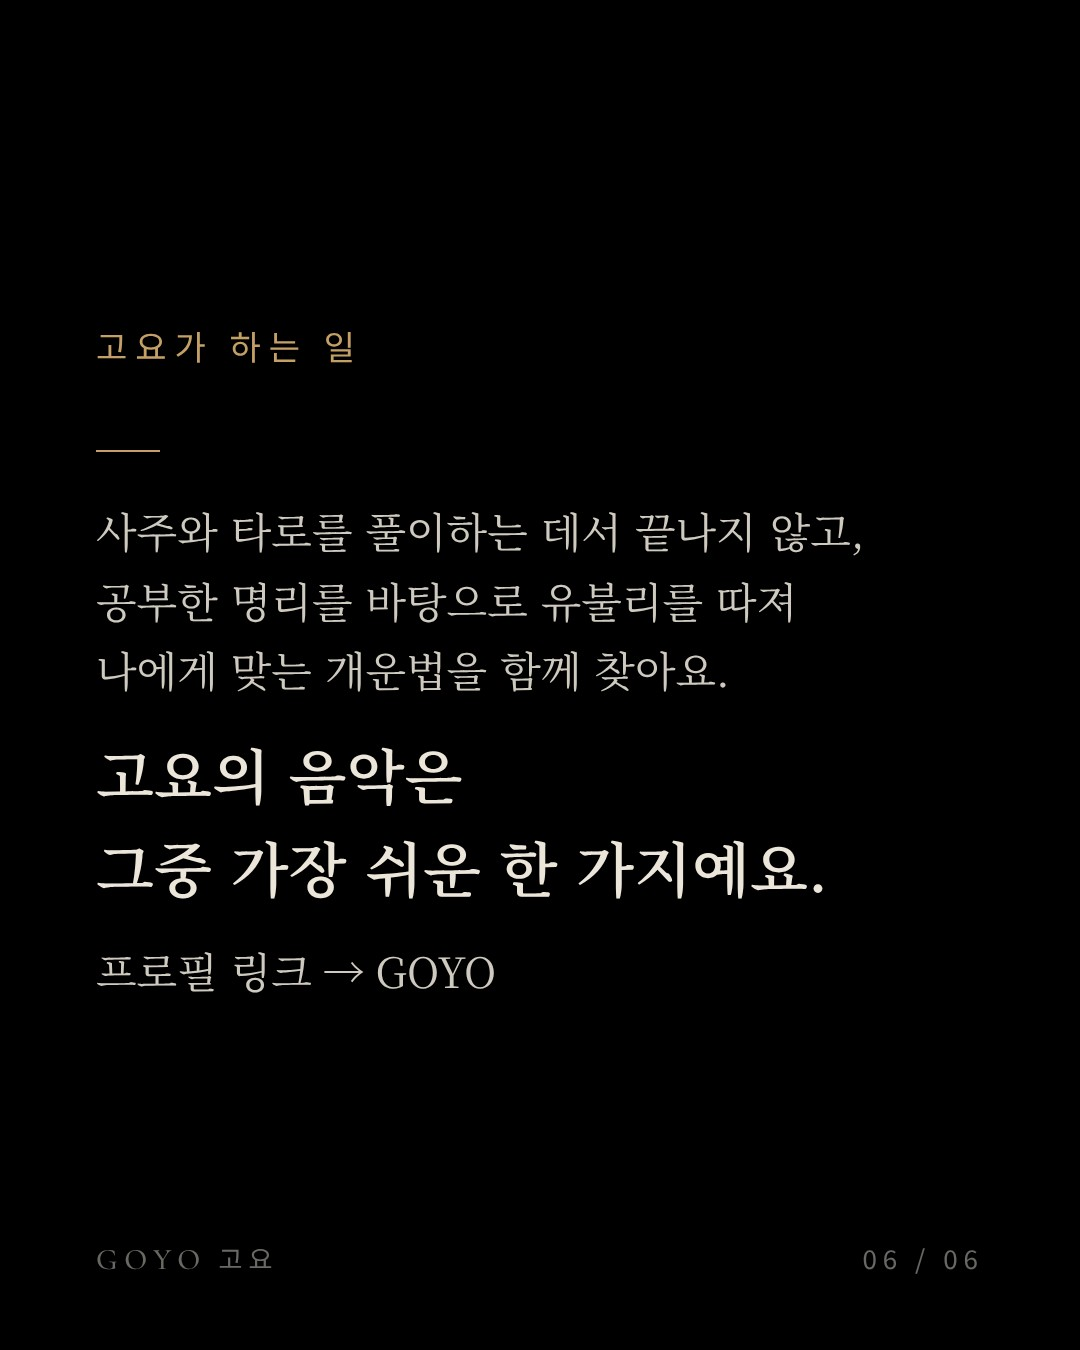
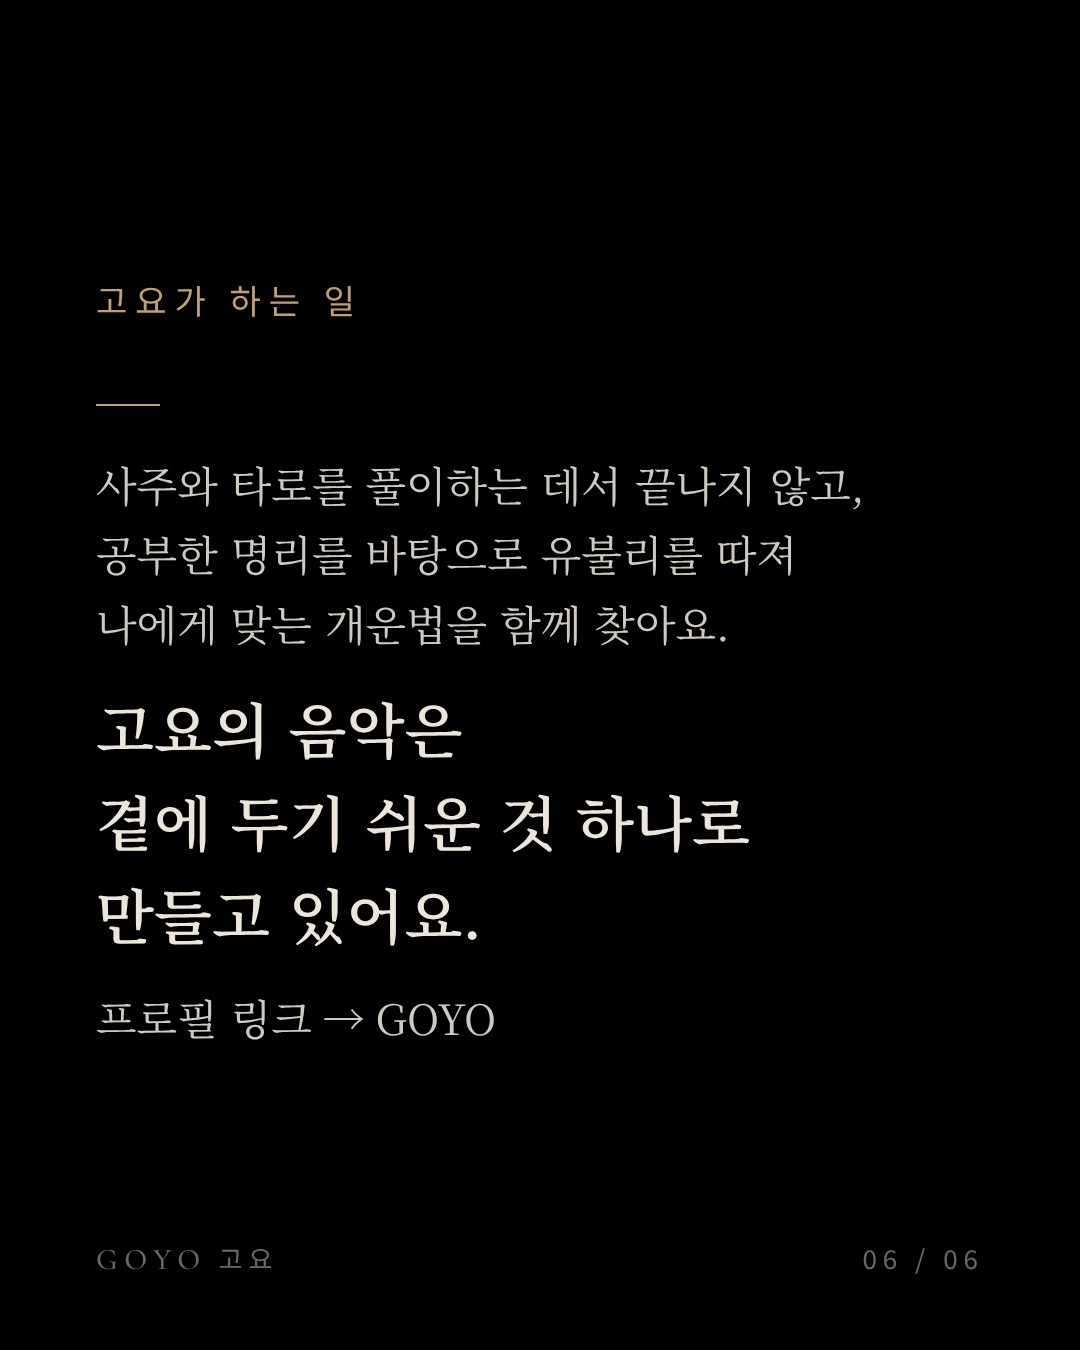
12/23 개운 표현을 관습 소개로 조정, 댓글 점검 규칙 보완
Claude-Session: https://claude.ai/code/session_01YKKUv8b4FfTb62jqwSpAgP

diff --git a/tools/week_src/dec.py b/tools/week_src/dec.py
@@ -310,10 +310,10 @@ post('2026-12-23', [
  txt('그런데 습관은 어려워요', '쉬워 보이는 습관도<br>바쁘거나 지치면<br>이어 가기가 어려워요.',
      '#그래서 의지가 덜 드는 방법을<br>함께 둬요.'),
  txt('깔아 두고, 걸어 두기', '음악은 일상에 깔아 두고,<br>그림은 집이나 사무실처럼<br>자주 있는 곳에 걸어 둬요.',
-     '#애쓰지 않아도 곁에 있는<br>소리와 그림으로 조후를 맞추며<br>개운을 실천하는 거예요.'),
+     '#명리에는 필요한 기운을<br>곁에 두는 개운법이 있어요.', '음악과 그림은 애쓰지 않아도<br>곁에 둘 수 있어요.'),
  txt('고요가 하는 일', '사주와 타로를 풀이하는 데서 끝나지 않고,<br>공부한 명리를 바탕으로 유불리를 따져<br>나에게 맞는 개운법을 함께 찾아요.',
-     '#고요의 음악은<br>그중 가장 쉬운 한 가지예요.', '프로필 링크 → GOYO'),
-], "운은 바꾸는 게 아니라 여는 거예요.\n\n개운(開運)은 운을 연다는 말이에요. 사주를 보고 지금이 나에게 유리한 때인지 불리한 때인지 따진 다음, 불리할 땐 유리한 쪽으로, 유리할 땐 더 유리한 쪽으로 가기 위한 개운법을 찾아요. 음식, 습관, 장소, 물건, 색, 스타일링, 운동까지요.\n\n그런데 개운법은 대부분 매일의 실천 습관이라, 바쁘거나 지치면 이어 가기 어려워요. 그래서 의지가 덜 드는 방법을 함께 둬요. 음악은 일상에 깔아 두고, 그림은 자주 있는 곳에 걸어 두는 것. 애쓰지 않아도 곁에 있는 소리와 그림으로 조후(사주의 차고 더움, 마르고 젖음의 균형)를 맞추며 개운을 실천하는 거예요.\n\n고요의 음악은 그중 가장 쉬운 한 가지예요. 프로필 링크 → GOYO\n\n#고요 #고요의이야기 #개운 #개운법 #사주 #명리학 #오행음악")
+     '#고요의 음악은<br>곁에 두기 쉬운 것 하나로<br>만들고 있어요.', '프로필 링크 → GOYO'),
+], "운은 바꾸는 게 아니라 여는 거예요.\n\n개운(開運)은 운을 연다는 말이에요. 사주를 보고 지금이 나에게 유리한 때인지 불리한 때인지 따진 다음, 불리할 땐 유리한 쪽으로, 유리할 땐 더 유리한 쪽으로 가기 위한 개운법을 찾아요. 음식, 습관, 장소, 물건, 색, 스타일링, 운동까지요.\n\n그런데 개운법은 대부분 매일의 실천 습관이라, 바쁘거나 지치면 이어 가기 어려워요. 그래서 의지가 덜 드는 방법을 함께 둬요. 음악은 일상에 깔아 두고, 그림은 자주 있는 곳에 걸어 두는 것. 명리에는 필요한 기운을 곁에 두는 개운법이 있는데, 음악과 그림은 애쓰지 않아도 곁에 둘 수 있으니까요.\n\n고요의 음악도 곁에 두기 쉬운 것 하나로 만들고 있어요. 프로필 링크 → GOYO\n\n#고요 #고요의이야기 #개운 #개운법 #사주 #명리학 #오행음악")
 
 # ───────── 12/24 목 · 그림 읽기 #6 히로시게
 post('2026-12-24', [

diff --git a/tools/comment_check.md b/tools/comment_check.md
@@ -27,3 +27,8 @@ C4) 알림에 댓글마다 번호를 매겨 작성자, 원문, 게시물(post), 
 C5) 답글은 절대 스스로 게시하지 않고, 숨기기·삭제도 하지 않습니다. 미오 님이 이 대화에서 번호를 지정해 승인한 답글만 아래 명령으로 올립니다.
    python3 tools/ig_comments.py reply <comment_id> "<답글>"
    미오 님이 초안을 고쳐 주셨다면 고친 문장으로 올립니다.
+
+## 추가 규칙 (2026-11-16)
+- 곡을 말할 때는 늘 「곡 이름 + 편 이름」으로 적는다. 예: 『Warm Soil』(무토 편). 같은 제목이 여러 편에 있고 노래는 서로 다르다(Warm Soil·Still Meadow: 토1·무토 / Far Shore·Low Tide·Ebb: 수1·임수 / Amber Hour: 토1·정화).
+- 답글에도 댓글을 더 요청하는 말(남겨 주세요, 알려 주세요, 댓글로)을 쓰지 않는다.
+- 게시물 ③의 "비어 있는 기운을 남겨 주시면 곡을 소개해 드린다" 약속을 보고 단 댓글에는 약속대로 답한다(하나씩 승인).
